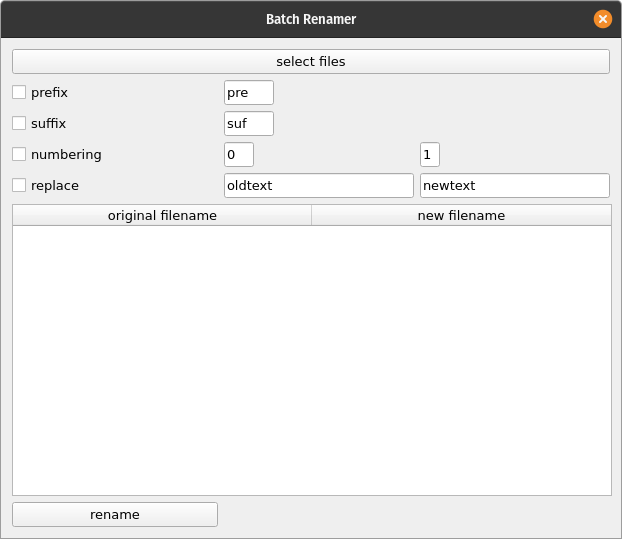
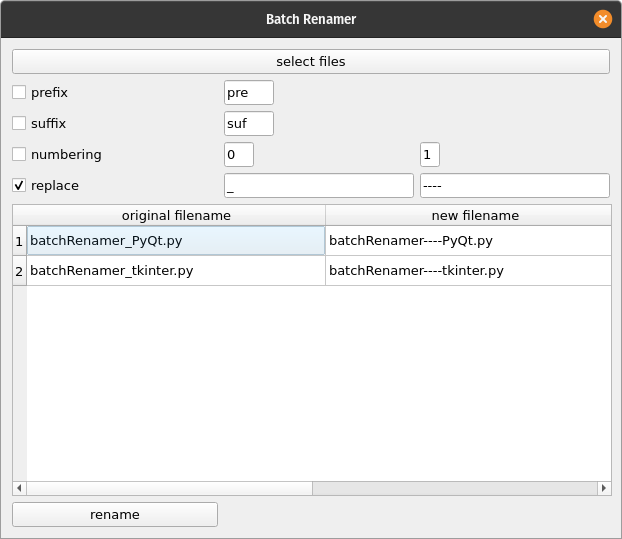
updated README and screenshots

diff --git a/README.md b/README.md
@@ -5,3 +5,6 @@ a batch file renamer written in Python3+tkinter and Python3+PyQT.
 ![tkinter screenshot](batchRenamer_tkinter_screenshot.png)
 
 ![PyQt screenshot](batchRenamer_PyQt_screenshot.png)
+
+
+TO-DOs: regex support, drag-and-drop
